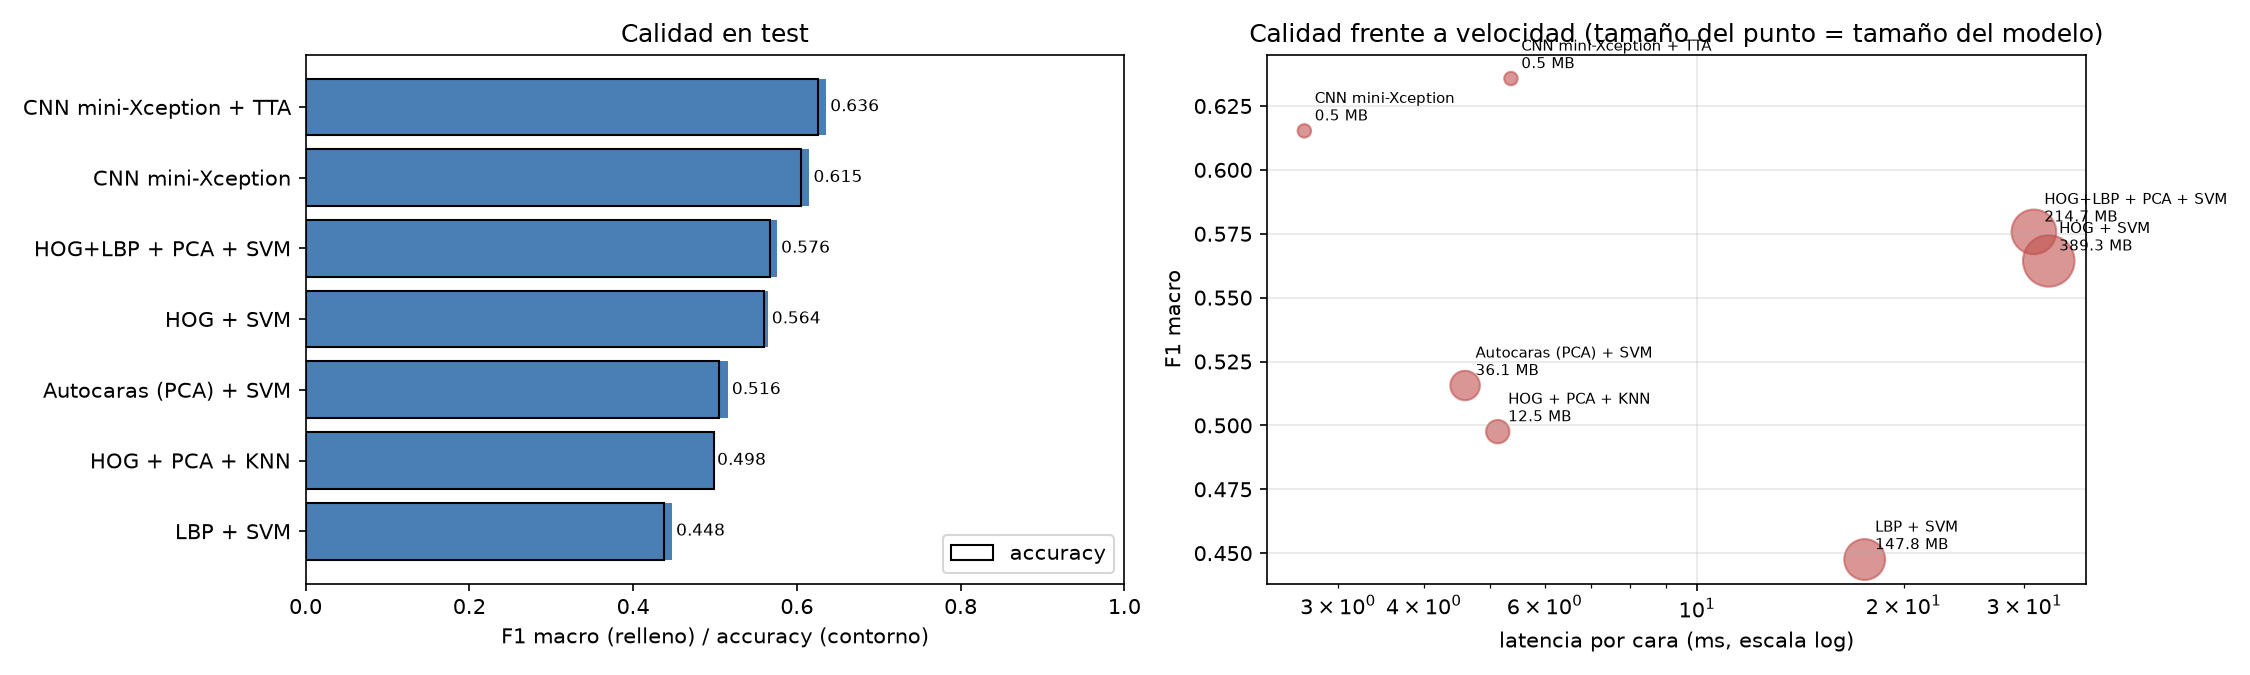
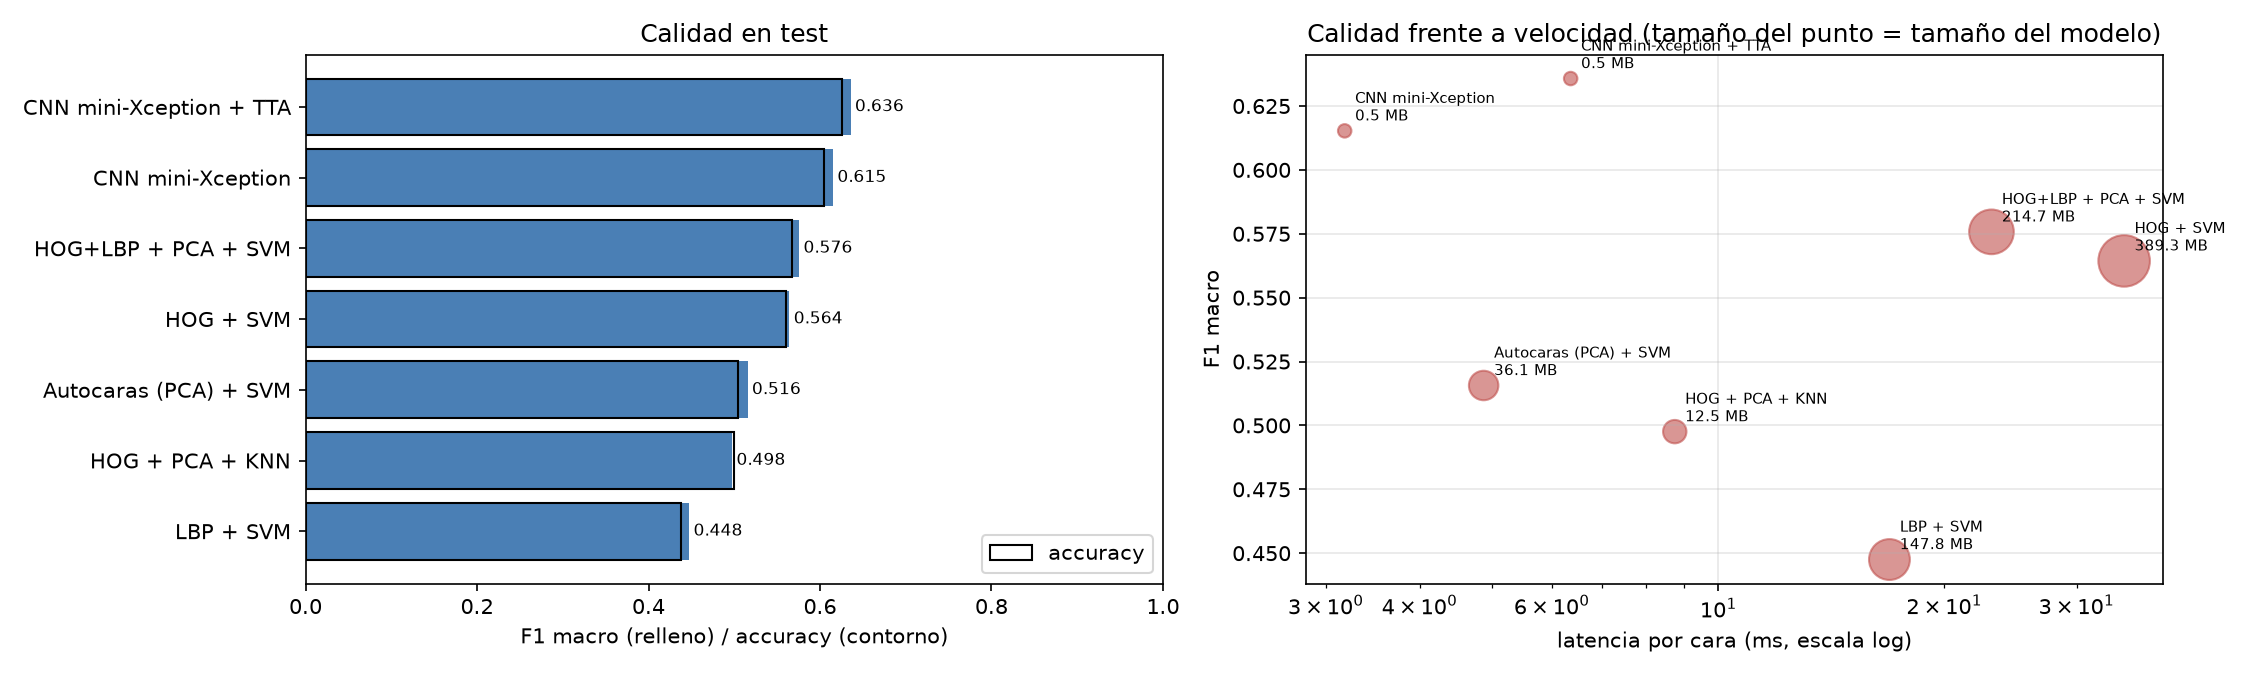
Cambios en las comparativas

diff --git a/P5/conclusiones_comparativas.md b/P5/conclusiones_comparativas.md
@@ -68,18 +68,18 @@ Recogida en las columnas `ms_por_cara`, `ms_por_imagen_en_lote` y `carga_s` de [
 
 | Modelo | ms / cara | ms / imagen en lote | Carga (s) |
 | :----- | :-------: | :-----------------: | :-------: |
-| HOG + SVM | 32.5 | 31.7 | 0.25 |
-| LBP + SVM | 17.6 | 16.9 | 0.08 |
-| HOG + LBP + PCA + SVM | 31.0 | 23.3 | 0.11 |
-| Autocaras (PCA) + SVM | 4.6 | 3.7 | 0.05 |
-| HOG + PCA + KNN | 5.1 | 1.4 | 0.01 |
-| **CNN mini-Xception** | **2.7** | **0.4** | 0.50 |
-| CNN mini-Xception + TTA | 5.4 | - | - |
+| HOG + SVM | 34.7 | 33.0 | 0.43 |
+| LBP + SVM | 16.9 | 16.4 | 0.20 |
+| HOG + LBP + PCA + SVM | 23.1 | 21.9 | 0.25 |
+| Autocaras (PCA) + SVM | 4.9 | 3.8 | 0.06 |
+| HOG + PCA + KNN | 8.7 | 1.1 | 0.07 |
+| **CNN mini-Xception** | **3.2** | **0.3** | 6.86 |
+| CNN mini-Xception + TTA | 6.4 | - | - |
 
-- La CNN es el modelo más rápido por cara (≈ 2,7 ms), y con TTA (≈ 5,4 ms) sigue siendo de sobra para tiempo real.
-- Las SVM sobre HOG o LBP son las más lentas, porque cada predicción se compara con miles de vectores de soporte. Su tiempo apenas baja al trabajar en lote (32,5 → 31,7 ms en HOG + SVM), lo que confirma que el coste está en el propio clasificador y no en la extracción.
-- KNN y la CNN, en cambio, se aceleran mucho en lote (KNN de 5,1 a 1,4 ms y la CNN de 2,7 a 0,4 ms), ya que gran parte de su coste por cara es fijo por llamada y se reparte al vectorizar.
-- Los tiempos de carga son despreciables en todos los casos (como mucho 0,5 s en la CNN, por la inicialización de Keras).
+- La CNN es el modelo más rápido por cara (≈ 3,2 ms), y con TTA (≈ 6,4 ms) sigue siendo de sobra para tiempo real.
+- Las SVM sobre HOG o LBP son las más lentas, porque cada predicción se compara con miles de vectores de soporte. Su tiempo apenas baja al trabajar en lote (34,7 → 33,0 ms en HOG + SVM), lo que confirma que el coste está en el propio clasificador y no en la extracción.
+- KNN y la CNN, en cambio, se aceleran mucho en lote (KNN de 8,7 a 1,1 ms y la CNN de 3,2 a 0,3 ms), ya que gran parte de su coste por cara es fijo por llamada y se reparte al vectorizar.
+- Los tiempos de carga son despreciables en los clásicos (menos de 0,5 s). La CNN tarda unos 7 s, pero casi todo ese tiempo es la primera importación e inicialización de TensorFlow/Keras, que solo se paga una vez al arrancar.
 
 ------
 
@@ -88,7 +88,7 @@ Recogido en las columnas `tamaño_MB`, `entrenamiento_s` y `parametros` de [comp
 
 | Modelo | Tamaño (MB) | Entrenamiento |
 | :----- | :---------: | :-----------: |
-| HOG + SVM | 389.3 | - |
+| HOG + SVM | 389.3 | 3111 s (≈ 52 min) |
 | LBP + SVM | 147.8 | 1598 s (≈ 27 min) |
 | HOG + LBP + PCA + SVM | 214.7 | 1372 s (≈ 23 min) |
 | Autocaras (PCA) + SVM | 36.1 | 274 s (≈ 4,6 min) |
@@ -98,7 +98,7 @@ Recogido en las columnas `tamaño_MB`, `entrenamiento_s` y `parametros` de [comp
 - El tamaño de las SVM crece con la dimensión de las características, ya que el modelo guarda los vectores de soporte: 1764 valores en HOG, 929 componentes en HOG + LBP + PCA, 640 en LBP y 150 en las autocaras.
 - KNN guarda todo el train proyectado a 100 componentes (30.241 x 100 valores), lo que da sus 12,5 MB, y su entrenamiento se limita a indexarlo.
 - La CNN, con 92.791 parámetros, ocupa unas 730 veces menos que HOG + SVM y unas 400 veces menos que el mejor clásico. Es, eso sí, la que más tarda en entrenar (en CPU, sin GPU).
-- El tiempo de HOG + SVM no figura porque `registro_modelos.json` no contiene su entrada.
+- HOG + SVM es el clásico más caro de entrenar (≈ 52 min), casi tanto como la CNN, por la dimensión del HOG (1764 valores) y el gran número de vectores de soporte.
 
 ------
 
@@ -107,7 +107,7 @@ Recogido en [comparativa_modelos.png](./informe_entrenamiento/comparativa_modelo
 
 ![Comparativa de modelos](./informe_entrenamiento/comparativa_modelos.png)
 
-Los modelos forman tres grupos. Arriba a la izquierda, la CNN (sola y con TTA) que, para nuestra sorpresa, es a la vez la más precisa, la más rápida y la más ligera Abajo a la izquierda, los clásicos con PCA de pocas componentes (autocaras y KNN), rápidos y ligeros pero con un F1 en torno a 0,50. A la derecha, las SVM sobre HOG y LBP, las más lentas y pesadas; entre ellas, las que usan HOG son las únicas que se acercan a la CNN en calidad.
+Los modelos forman tres grupos. Arriba a la izquierda, la CNN (sola y con TTA) que, para nuestra sorpresa, es a la vez la más precisa, la más rápida y la más ligera. Abajo a la izquierda, los clásicos con PCA de pocas componentes (autocaras y KNN), rápidos y ligeros pero con un F1 en torno a 0,50. A la derecha, las SVM sobre HOG y LBP, las más lentas y pesadas; entre ellas, las que usan HOG son las únicas que se acercan a la CNN en calidad.
 
 ------
 
@@ -116,16 +116,16 @@ Recogido en [comparativa_deepface.csv](./informe_entrenamiento/comparativa_deepf
 
 | Modelo | Accuracy | F1 macro | ms / cara |
 | :----- | :------: | :------: | :-------: |
-| **CNN mini-Xception + TTA** | **0.597** | **0.591** | 5.4 |
-| CNN mini-Xception | 0.587 | 0.580 | **2.7** |
-| DeepFace.analyze | 0.563 | 0.563 | 14.1 |
-| HOG + SVM | 0.528 | 0.530 | 32.5 |
-| HOG + LBP + PCA + SVM | 0.527 | 0.529 | 31.0 |
-| HOG + PCA + KNN | 0.478 | 0.471 | 5.1 |
-| Autocaras (PCA) + SVM | 0.472 | 0.473 | 4.6 |
-| LBP + SVM | 0.402 | 0.402 | 17.6 |
+| **CNN mini-Xception + TTA** | **0.597** | **0.591** | 6.4 |
+| CNN mini-Xception | 0.587 | 0.580 | **3.2** |
+| DeepFace.analyze | 0.563 | 0.563 | 12.4 |
+| HOG + SVM | 0.528 | 0.530 | 34.7 |
+| HOG + LBP + PCA + SVM | 0.527 | 0.529 | 23.1 |
+| HOG + PCA + KNN | 0.478 | 0.471 | 8.7 |
+| Autocaras (PCA) + SVM | 0.472 | 0.473 | 4.9 |
+| LBP + SVM | 0.402 | 0.402 | 16.9 |
 
-- La CNN propia supera a DeepFace tanto sin TTA (+2,3 puntos de accuracy) como con TTA (+3,3 puntos), y es unas 5 veces más rápida por cara sin TTA y unas 2,6 veces con TTA.
+- La CNN propia supera a DeepFace tanto sin TTA (+2,3 puntos de accuracy) como con TTA (+3,3 puntos), y es unas 4 veces más rápida por cara sin TTA y unas 2 veces con TTA.
 - Ninguno de los clásicos alcanza a DeepFace: los mejores, HOG + SVM y HOG + LBP + PCA + SVM, quedan unos 3,5 puntos por debajo.
 - Al ser un subconjunto equilibrado, la accuracy coincide prácticamente con la accuracy balanceada. Con 600 caras, las diferencias menores de un punto (unas 6 caras) no son significativas, por lo que HOG + SVM y HOG + LBP + PCA + SVM, o KNN y las autocaras, deben considerarse empatados en esta prueba.
 - DeepFace se evalúa en su propio dominio (FER-2013), lo que juega a su favor, y además no requiere entrenar nada; a cambio, es una caja negra con clases fijas que no permite añadir `duckface`.
@@ -133,4 +133,4 @@ Recogido en [comparativa_deepface.csv](./informe_entrenamiento/comparativa_deepf
 ------
 
 ## Conclusión
-Los datos de la comparativa apuntan en la misma dirección: la **CNN propia** es el mejor modelo en calidad (F1 macro 0,615, y 0,636 con TTA), el más rápido por cara y el más ligero, y supera a DeepFace sobre las mismas caras. Por ello es el modelo elegido para el prototipo en tiempo real, usado sin TTA en el demostrador (≈ 2,7 ms por cara) y dejando el TTA como mejora opcional. Entre los clásicos, la combinación de HOG con una SVM es la única que se acerca, pero a costa de ser unas 12 veces más lenta y cientos de veces más pesada.
+Los datos de la comparativa apuntan en la misma dirección: la **CNN propia** es el mejor modelo en calidad (F1 macro 0,615, y 0,636 con TTA), el más rápido por cara y el más ligero, y supera a DeepFace sobre las mismas caras. Por ello es el modelo elegido para el prototipo en tiempo real, usado sin TTA en el demostrador (≈ 3,2 ms por cara) y dejando el TTA como mejora opcional. Entre los clásicos, la combinación de HOG con una SVM es la única que se acerca, pero a costa de ser entre 7 y 11 veces más lenta y cientos de veces más pesada.
